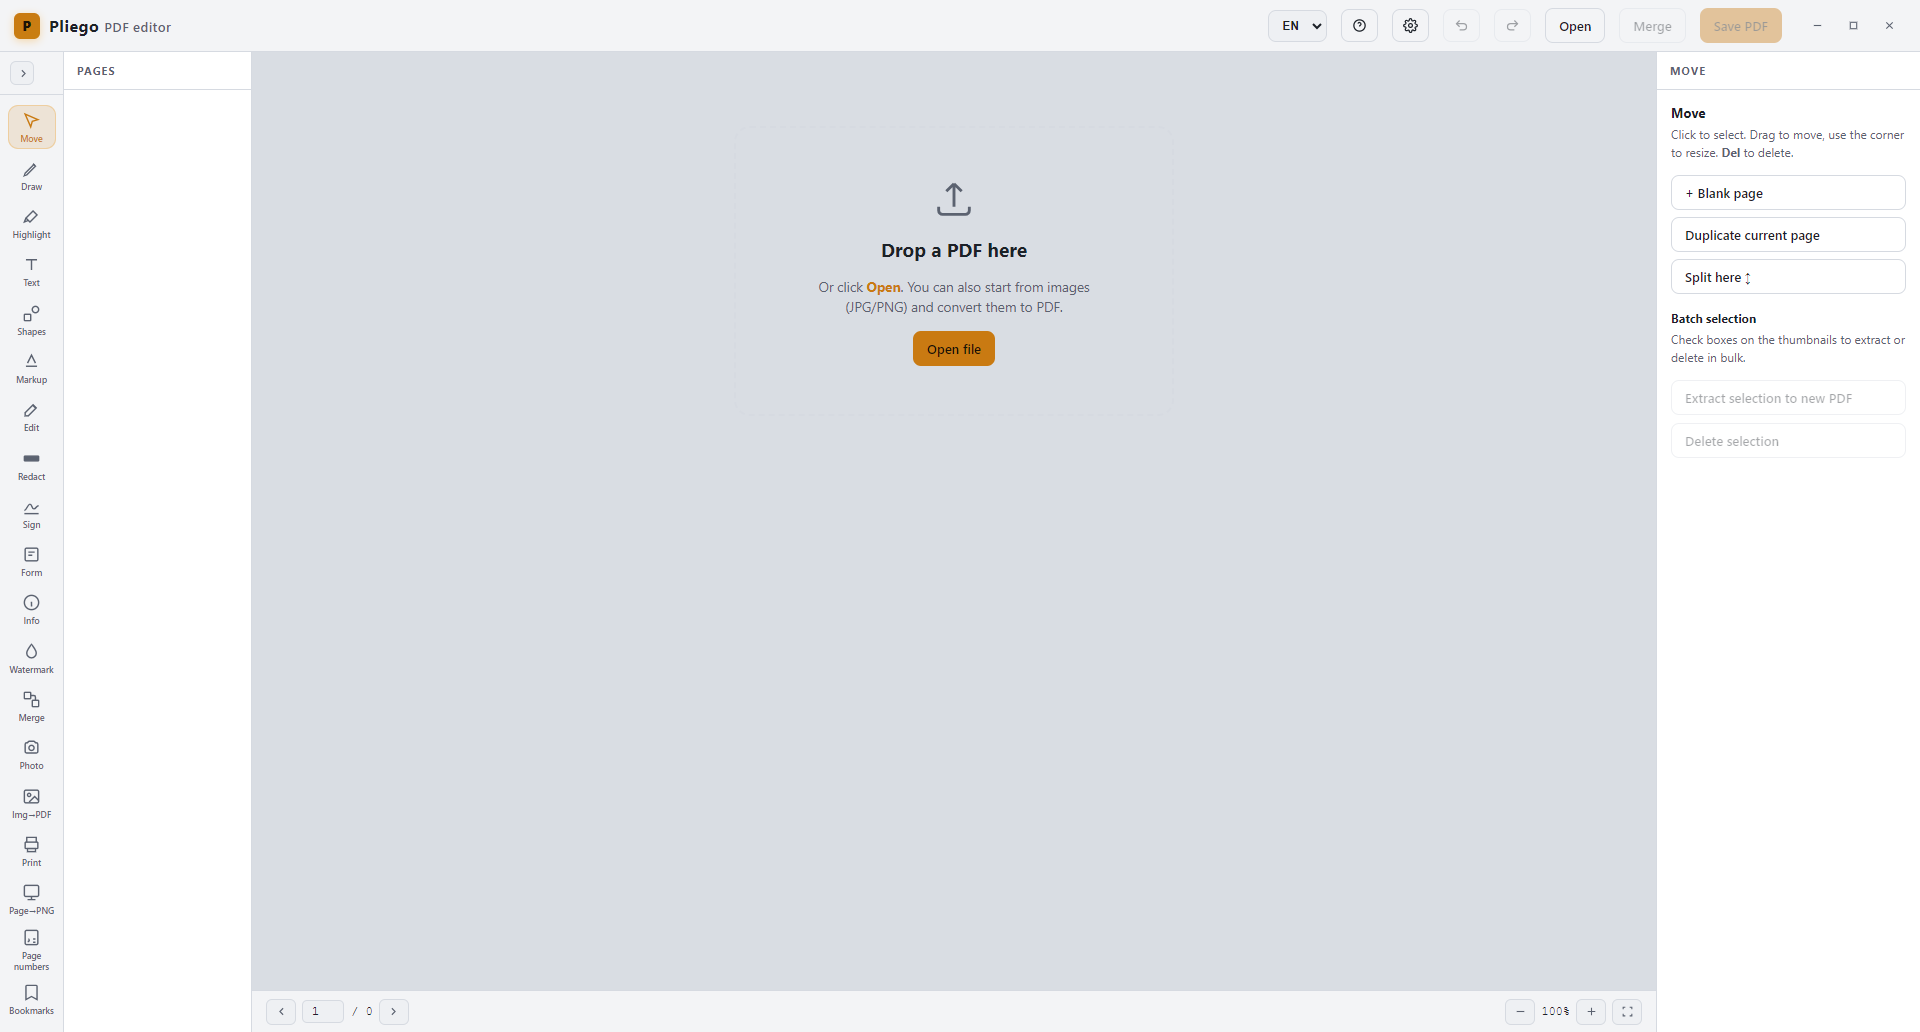
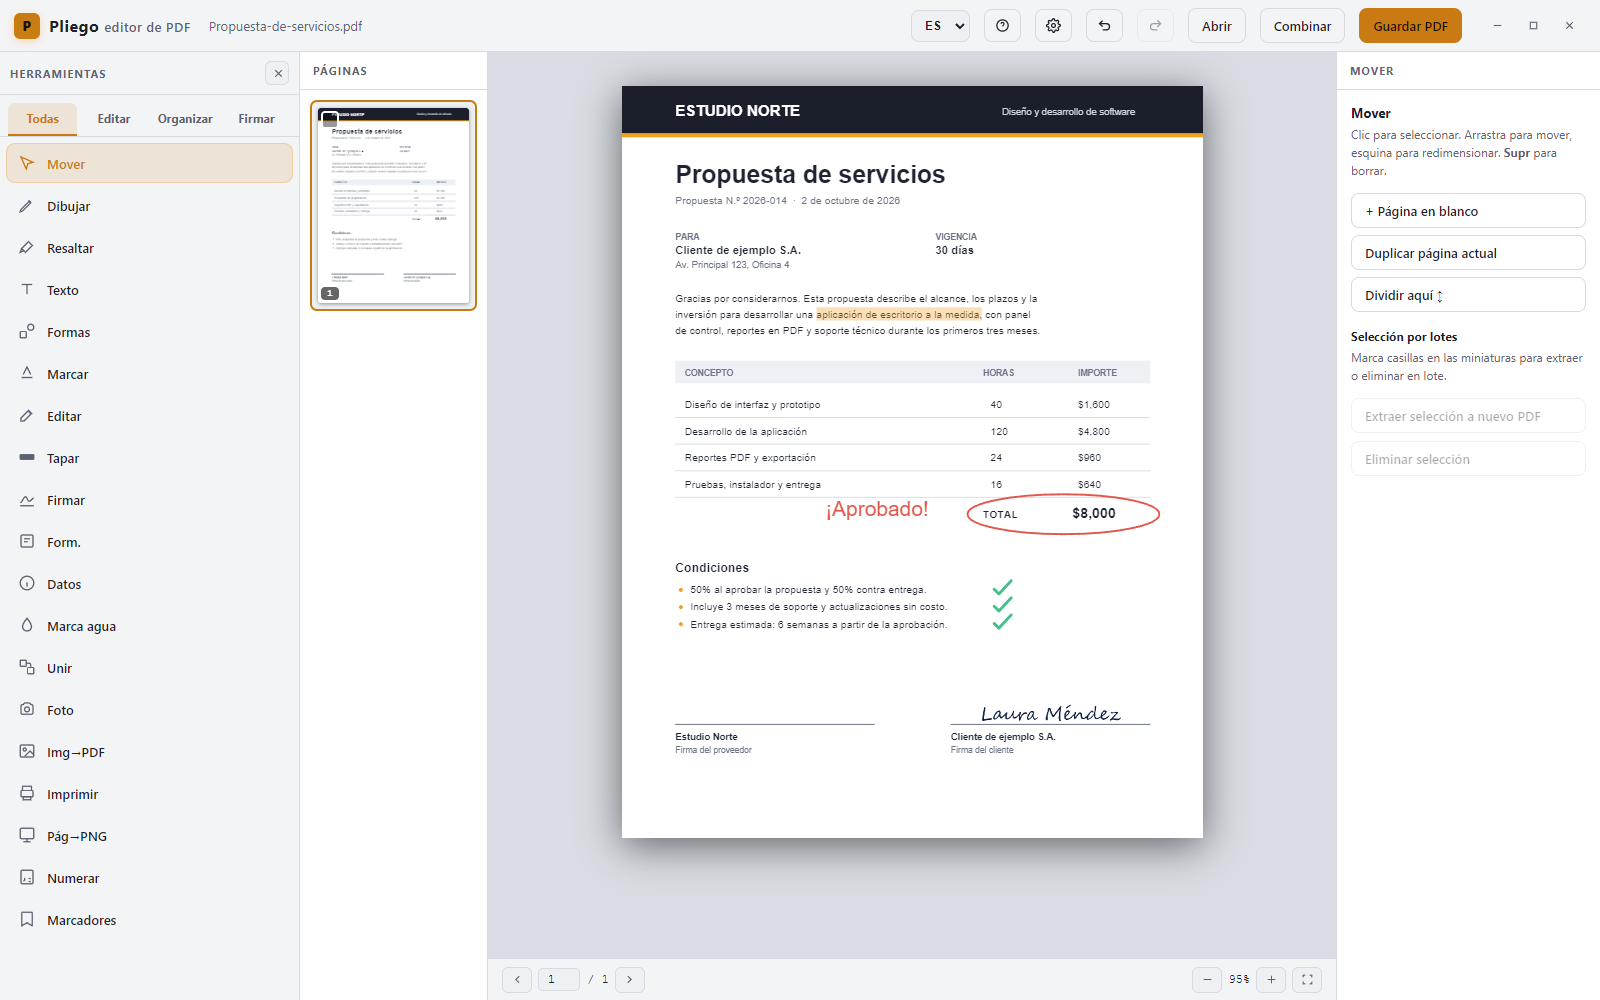
docs: fix screenshot script and refresh README captures
The capture script looked for PDF loaders that don't exist, so every
screenshot showed the empty drop zone. It now builds a demo PDF with the
bundled pdf-lib, opens it through ingestFiles(), annotates it with the
real tools (highlight, shapes, freehand, text, signature) and captures
the four gallery images at a fixed 1600x1000 size.

It also runs Electron with a throwaway --user-data-dir and aborts if the
profile isn't isolated, so it no longer wipes the installed app's saved
signatures, settings, recent files or window state.

diff --git a/README.md b/README.md
@@ -48,12 +48,12 @@ Pliego es una app de escritorio que te permite **editar, firmar y anotar PDFs** 
 
 ## 🖼 Galería
 
-> Las capturas se encuentran en [`docs/screenshots/`](docs/screenshots/).
+> Las capturas se encuentran en [`docs/screenshots/`](docs/screenshots/). Para regenerarlas: `npm install` y luego `node docs/screenshots/capture.mjs`.
 
 | Vista | Descripción |
 |---|---|
-| ![Pantalla principal](docs/screenshots/main-dark.png) | **Pantalla principal** — panel de herramientas, vista del PDF y barra superior |
-| ![Herramientas de anotación](docs/screenshots/annotations.png) | **Anotaciones** — dibujo, resaltado y texto sobre el documento |
+| ![Pantalla principal](docs/screenshots/main-dark.png) | **Pantalla principal** — un PDF anotado y firmado, con el panel de herramientas y las páginas |
+| ![Herramientas de anotación](docs/screenshots/annotations.png) | **Anotaciones** — resaltado, formas, dibujo a mano y texto sobre el documento |
 | ![Panel de firma](docs/screenshots/signature.png) | **Firma digital** — tres modos: escribir, dibujar o insertar imagen |
 | ![Tema claro](docs/screenshots/main-light.png) | **Tema claro** — alternativa para ambientes con luz natural |
 
